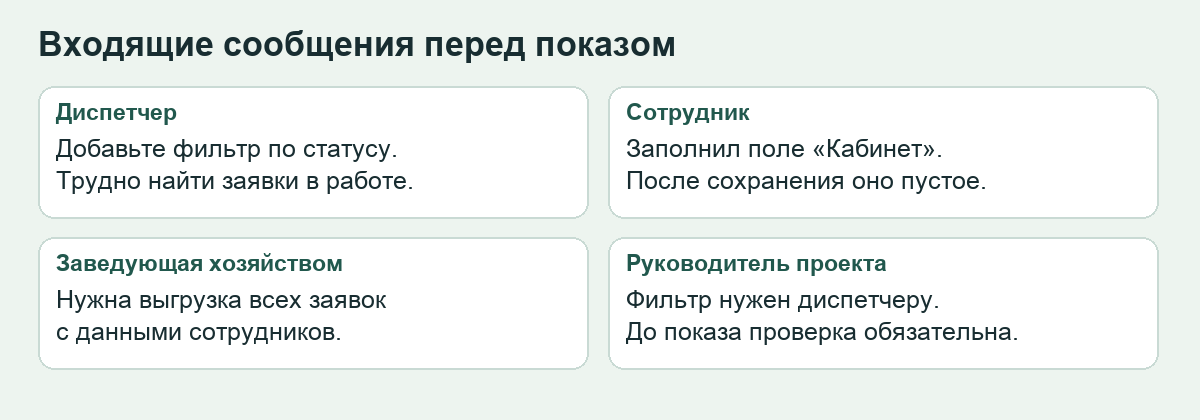
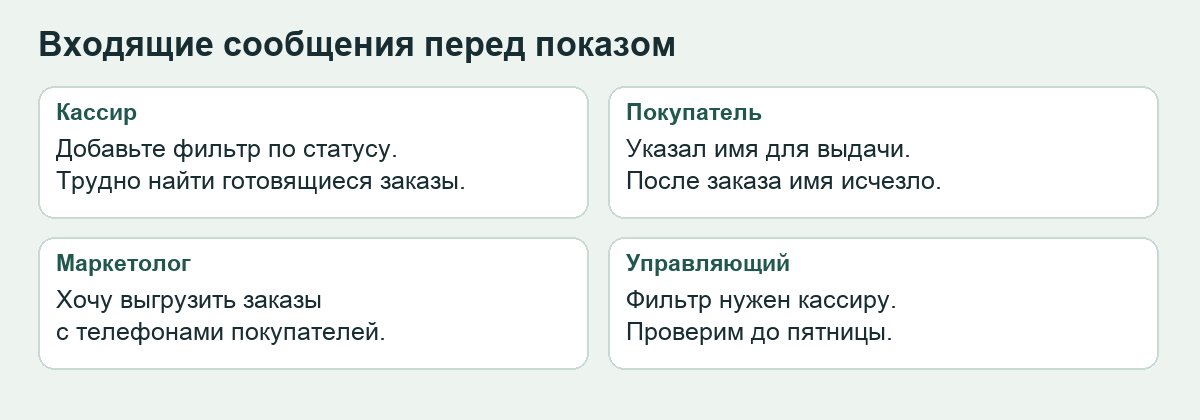
Turn both exercises into a pizzeria launch case

diff --git a/Управление изменениями.md b/Управление изменениями.md
@@ -74,100 +74,79 @@
 
 **Запишите в тетрадь** определение, состав запроса, порядок анализа и возможные решения. Зарисуйте схему. Под третьим блоком подпишите три исхода: включить в выпуск, перенести, отклонить. Рядом с каждым запишите, какое действие следует дальше.
 
-## Практическая работа. Подготовка выпуска системы заявок
+## Практическая работа. Пиццерия запускает онлайн-заказы
 
-![Откройте Excel или тетрадь. Восстановите границы выпуска, разберите четыре сообщения, примите решение и подготовьте проверки.](Схемы/маршрут-изменения.png)
+![Маршрут практической работы](Схемы/маршрут-изменения.png)
 
-**Ваша роль — координатор выпуска.** Подготовьте решение для руководителя проекта. К показу могут войти разные работы, поэтому сначала разберите, о чём на самом деле просит каждый участник.
+В пятницу вечером пиццерия впервые будет принимать заказы через сайт. До запуска осталась одна смена. Вы помогаете управляющему решить, какие изменения войдут в первую версию.
 
-![Четыре входящих сообщения от диспетчера, сотрудника, заведующей и руководителя проекта](Схемы/входящие.png)
+### Как работает сайт
 
-### Учебный кейс. Заявки на ремонт в офисе
+Покупатель выбирает пиццу и оформляет заказ навынос. Он указывает **имя для выдачи** и видит только свои заказы. Кассир видит все заказы и меняет их статус: **«Новый» → «Готовится» → «Выдан»**. Имя покупателя должно сохраняться и отображаться в заказе. В пятницу сайт должен заработать, деньги на дополнительные услуги не выделены. Состав выпуска утверждает управляющий.
 
-В офисе сломался принтер. Сотрудник открывает внутренний сервис и сообщает, что сломалось и в каком кабинете. Диспетчер видит обращение в общем списке и меняет его статус по ходу ремонта. К показу диспетчер просит добавить фильтр по статусу.
+### Сообщения перед запуском
 
-**Работайте с этим кейсом на всех четырёх листах.** Для выполнения нужны только эта страница и Excel или тетрадь. Сервис описан в условии. Устанавливать его и придумывать свою тему не нужно.
+![Четыре сообщения перед запуском онлайн-заказов](Схемы/входящие.png)
 
-- **«Выпуск»** — возьмите роли, доступ и ограничения из блока «Исходные данные».
-- **«Запросы»** — разберите четыре сообщения из того же блока.
-- **«Решение»** — предложите, включить ли фильтр в выпуск, и объясните почему.
-- **«Проверка»** — запишите, как должно вести себя приложение в пяти ситуациях из этапа 4.
+1. **Кассир:** «Добавьте фильтр по статусу. Когда заказов много, трудно найти те, которые ещё готовятся».
+2. **Покупатель:** «Указал имя для выдачи, но после оформления оно исчезло».
+3. **Маркетолог:** «Хочу выгружать заказы вместе с телефонами покупателей для рекламной рассылки». Использование контактов для рассылки ещё предстоит согласовать.
+4. **Управляющий:** «На старте фильтр нужен только кассиру. Добавляйте его, только если успеете проверить до пятницы».
 
-Примеры про прокат, кафе и другие сервисы показывают ход рассуждения. В свои таблицы записывайте ответы про заявки на ремонт.
-
-### Подготовка
-
-Откройте **Excel → Создать → Пустая книга**. Создайте четыре листа: **«Выпуск», «Запросы», «Решение», «Проверка»**. На каждом самостоятельно начертите таблицы по скриншоту: перенесите заголовки, поставьте границы и заполните строки. Сохраните книгу как «Изменения_Фамилия.xlsx».
-
-**Если Excel недоступен**, оформите в тетради **четыре подписанные таблицы по образцу листов**: «Выпуск», «Запросы», «Решение», «Проверка». В каждой таблице перенесите все блоки с соответствующего скриншота. Проведите линии по линейке, выделите заголовки и оставьте место для ответов.
-
-### Исходные данные
-
-Сотрудник создаёт заявку на ремонт и видит только свои заявки. В форме предусмотрено поле «Кабинет», значение которого должно оставаться в карточке после сохранения. Диспетчер видит все заявки и меняет статус: «Новая», «В работе», «Закрыта». Статусы уже хранятся в системе. В понедельник систему показывают заказчику. Дату менять нельзя. Дополнительные расходы не согласованы. Состав выпуска утверждает руководитель проекта.
-
-1. Диспетчер просит фильтр по статусу, чтобы на показе быстро найти незавершённые заявки.
-2. Сотрудник сообщает, что у новой заявки пропало название кабинета после сохранения.
-3. Заведующая хозяйством просит выгрузку всех заявок с данными сотрудников для рассылки по почте. Состав данных и доступ к ним ещё не согласованы.
-4. Руководитель проекта уточняет, что фильтр нужен только диспетчеру. Он готов рассмотреть включение в выпуск при условии, что команда успеет проверить изменение до показа.
+**Оформление.** Откройте **Excel → Создать → Пустая книга**. Создайте четыре листа: **«Выпуск», «Запросы», «Решение», «Проверка»**. Перенесите заголовки со скриншотов и поставьте границы. Если Excel недоступен, начертите в тетради четыре подписанные таблицы с теми же блоками. Все ответы относятся к пиццерии. Для работы достаточно условия и таблиц.
 
 ### Этап 1. Восстановите состав выпуска · 8 минут
 
-
 ![Пустой лист «Выпуск»](Шаблоны/Изменения-Выпуск.png)
 
+- **Верхний блок.** По одной строке на покупателя и кассира. В «Согласованных действиях» запишите, что роль может сделать. В «Границах доступа» укажите, чьи заказы она видит.
+- **Нижний блок.** Запишите, кто утверждает выпуск, какие два ограничения есть перед запуском и что покупатель сможет делать в своём кабинете после добавления фильтра кассиру.
 
-На листе «Выпуск» сделайте столбцы «Роль», «Согласованные действия», «Границы доступа». Заполните строки для сотрудника и диспетчера. Под таблицей запишите, кто утверждает выпуск и какие два ограничения заданы до начала работы. Отдельно сформулируйте, какое поведение личного кабинета должно сохраниться при добавлении фильтра.
+**Пример из проката велосипедов.** «Забронировать велосипед» — действие клиента. «Видит только свои брони» — граница доступа. Проверьте, что ваши строки отвечают на оба вопроса.
 
-**Пример из другой ситуации. Прокат велосипедов.** Клиент бронирует велосипед и видит свои брони. Администратор подтверждает брони и видит весь список. «Бронирует» — действие. «Видит только свои брони» — граница доступа. Подумайте, какую ошибку допустит тот, кто запишет в обе колонки «может бронировать».
-
-### Этап 2. Разберите обращения · 12 минут
-
+### Этап 2. Разберите сообщения · 12 минут
 
 ![Пустой лист «Запросы»](Шаблоны/Изменения-Запросы.png)
 
+- **Верхний блок.** Перенесите четыре сообщения по одному в строку. Определите вид каждого: предложение об изменении, сообщение о возможном дефекте или уточнение. Укажите, кому его передать и с чего начать. Для пропавшего имени запишите, какое согласованное поведение нужно проверить.
+- **Нижний блок.** Под заголовком «Запрос на изменение: фильтр по статусу» заполните пять строк: автор, причина, что добавить, для кого действует и как проверить. В последней строке запишите, что кассир должен увидеть при выборе статуса и после сброса.
 
-На листе «Запросы» сделайте столбцы «Автор», «Суть», «Вид обращения», «Кому передать», «Первое действие». Разберите все четыре сообщения. Используйте виды «изменение», «сообщение о дефекте», «уточнение». Для сообщения о кабинете запишите, какое согласованное поведение надо проверить. Свяжите уточнение руководителя с нужным обращением.
+**Пример из кинотеатра.** Кассир просит добавить подарочный билет, которого пока нет в продаже. Это предложение об изменении. Первым делом уточняют, где билет будут продавать. Подумайте, как бы вы назвали обращение, если подарочный билет уже был согласован, но исчез с сайта.
 
-На том же листе **«Запросы»**, под таблицей обращений, напишите заголовок **«Запрос на изменение: фильтр по статусу»**. Под ним сделайте два столбца — «Поле» и «Содержание». В столбце «Поле» подпишите пять строк: «Автор», «Причина», «Что добавить», «Где действует», «Как проверить». В «Содержании» заполните их по исходным данным задания. В последней строке опишите два результата — после выбора статуса и после сброса.
-
-**Пример из другой ситуации. Кинотеатр.** Кассир просит подарочные билеты. В строке обращения можно записать: «Кассир → добавить подарочный билет → изменение → руководителю проекта → уточнить, где билет будут продавать». Ниже в отдельном запросе указывают причину, границы и проверяемый результат. Подумайте, что изменится в записи, если подарочные билеты уже обещали, но они исчезли из продажи.
-
-### Этап 3. Подготовьте решение · 20 минут
-
+### Этап 3. Примите решение перед запуском · 20 минут
 
 ![Пустой лист «Решение»](Шаблоны/Изменения-Решение.png)
 
+1. **Что затронуто.** Заполните пять строк: экран кассира, данные заказа, доступ покупателя, инструкция кассира и проверка перед запуском. В каждой укажите работу и того, кто подтвердит результат.
+2. **Варианты.** Сравните два варианта: выпустить фильтр только для кассира или отложить. Для каждого запишите пользу, риск и вопрос, который надо выяснить до решения.
+3. **Решение.** Выберите вариант и обоснуйте его. Укажите, кто утвердит решение и где его записать.
+4. **Новая вводная.** Фильтр сделали, но после обновления ещё никто не проверял, сохраняется ли имя для выдачи. Под записью о решении допишите, меняет ли это ваш выбор и какое наблюдение поможет принять окончательное решение.
+5. **Сообщения.** В нижнем блоке напишите покупателю, что проверит команда, и маркетологу, какой вопрос о контактах нужно решить до выгрузки.
 
-1. В первом блоке листа «Решение» создайте столбцы «Что затронуто», «Что потребуется», «Кто подтвердит». Разберите интерфейс диспетчера, данные, доступ сотрудников, инструкцию и проверку выпуска.
-2. Во втором блоке сравните два варианта: включить фильтр только для диспетчера или перенести на следующий выпуск. Для каждого укажите пользу, риск и сведения, которые нужны для решения. Отметьте, что известно точно, а что надо уточнить.
-3. В третьем блоке напишите запись для журнала решений: предлагаемое решение, основание, кто утверждает, какой документ обновить после утверждения. Если предлагаете включение, укажите условие, при котором команда успеет подтвердить готовность.
-4. Представьте, что перед самым показом команда прислала новую информацию: фильтр готов, но проверка кабинета сотрудника после обновления ещё не проведена. Запишите, что вы измените в решении и какое подтверждение позволит пересмотреть его.
-5. В четвёртом блоке напишите два коротких сообщения. Сотруднику объясните, как будет проверено исчезновение кабинета. Заведующей задайте вопрос о составе разрешённых данных и согласовании доступа к выгрузке.
+**Пример из мастерской.** Сервис хочет отправлять клиентам уведомления о готовности ремонта. Если рассылку ещё не проверили, мастерская может запуститься с прежними уведомлениями. Чтобы обосновать решение, запишите конкретное условие: кому должно прийти сообщение и в какой момент.
 
-**Пример из другой ситуации. Кафе.** Владелец просит добавить предзаказ. Для раздела «Что затронуто» подойдёт строка «Меню → добавить время выдачи → администратор подтвердит доступные часы». Если запуск завтра, а время выдачи ещё не согласовано, можно отложить предзаказ и оставить действующее меню. Подумайте, кому об этом нужно сообщить и какой факт позволит пересмотреть решение.
-
-### Этап 4. Подготовьте условия проверки · 15 минут
-
+### Этап 4. Подготовьте проверки · 15 минут
 
 ![Пустой лист «Проверка»](Шаблоны/Изменения-Проверка.png)
 
+На экране кассира три заказа: **П-01 «Новый»**, **П-02 «Готовится»**, **П-03 «Готовится»**. П-01 и П-03 принадлежат Саше, П-02 — Жене. Заказов со статусом «Выдан» пока нет.
 
-На листе «Проверка» создайте столбцы «Исходное состояние», «Действие», «Ожидаемый результат», «Что записать при расхождении». Заполните пять строк:
+Заполните пять строк. В каждой укажите исходное состояние, действие, ожидаемый результат и что запишете, если результат окажется другим.
 
-- диспетчер выбирает статус, по которому есть заявки
-- диспетчер выбирает статус, по которому заявок нет
-- диспетчер сбрасывает фильтр
-- сотрудник открывает список, когда в системе есть его и чужие заявки
-- сотрудник сохраняет заявку с кабинетом и открывает её повторно
+1. Кассир выбирает «Готовится».
+2. Кассир выбирает «Выдан».
+3. Кассир сбрасывает фильтр после выбора «Готовится».
+4. Саша открывает личный кабинет.
+5. Женя оформляет новый заказ, указывает имя для выдачи и открывает заказ снова.
 
-Укажите, какие строки нужны для приёмки фильтра, а какая относится к обращению о кабинете. Под таблицей напишите, при каком наблюдении вы предложите отложить фильтр.
+Под таблицей запишите, при каком результате вы предложите отложить фильтр. Отметьте, какая проверка относится к отдельной жалобе об имени.
 
-**Пример из другой ситуации. Интернет-магазин обуви.** В каталоге есть кеды размера 38 и ботинки размера 40. Действие — выбрать размер 38. Ожидаемый результат — видны кеды, ботинок в списке нет. Если ботинки всё же видны, в последнем столбце запишите, какой размер выбрали и какая лишняя модель появилась. Подумайте, что надо записать как исходное состояние, чтобы другой человек смог повторить проверку.
+**Пример из магазина обуви.** Если в каталоге есть кеды 38-го размера и ботинки 40-го, после выбора 38-го должны остаться кеды. Если ботинки всё ещё видны, запишите выбранный размер и лишний товар. В своей таблице так же указывайте номера заказов там, где они известны.
 
 ### Самопроверка и показ · 10 минут
 
-Проверьте, что фильтр и выгрузка оформлены отдельно, сообщение о кабинете связано с согласованным требованием, а вывод по выпуску учитывает ограничения. У каждой проверки должны быть действие и наблюдаемый результат.
+Проверьте, что вы различили просьбу о новом фильтре и жалобу на пропавшее имя. Сверьте решение с условиями запуска. В проверках должно быть ясно, что сделать и какие заказы ожидать.
 
-**Покажите преподавателю на экране или в тетради:** схему в тетради, заполненный запрос на добавление фильтра на листе «Запросы», запись о решении на листе «Решение» и две строки на листе «Проверка» — сброс фильтра и доступ сотрудника.
+**Покажите на месте** схему из конспекта, запрос на фильтр, своё решение и две проверки: сброс фильтра и личный кабинет покупателя.
 
-**Если закончили раньше.** Диспетчер просит сохранять выбранный фильтр после выхода. Допишите, какие данные понадобится хранить, чем отличается проверка повторного входа под тем же и другим пользователем и как меняется решение о выпуске.
+**Если закончили раньше.** Управляющий хочет, чтобы фильтр сохранялся после выхода кассира. Опишите, что должно произойти, если на том же компьютере войдёт другой кассир. Добавьте проверку и решите, стоит ли расширять выпуск.

diff --git a/Управление качеством.md b/Управление качеством.md
@@ -60,86 +60,72 @@
 
 **Запишите в тетрадь** определения трёх видов работы с качеством и по одному примеру каждого. Зарисуйте схему. Под блоком сравнения подпишите два исхода: проверка пройдена или требуется замечание.
 
-## Практическая работа. Приёмка учебного обновления
+## Практическая работа. Последняя проверка перед открытием пиццерии
 
-![Откройте Excel или тетрадь. Сверьте наблюдения, оформите замечания, подготовьте повторные проверки и вынесите решение о выпуске.](Схемы/маршрут-качество.png)
+![Маршрут практической работы](Схемы/маршрут-качество.png)
 
-### Учебный кейс. Заявки на ремонт в офисе
+До запуска онлайн-заказов осталась одна смена. Фильтр по статусу уже добавили. Кассир нажал «Сбросить», но часть заказов так и не появилась. Вы разбираете результаты пробного запуска и готовите заключение для управляющего.
 
-Когда в офисе ломается принтер, сотрудник оставляет заявку в сервисе и указывает кабинет. Диспетчер видит общий список и пользуется новым фильтром по статусу. Вы проверяете обновление по готовому протоколу и снимкам на этой странице.
+![Два учебных снимка списка после сброса фильтра](Схемы/снимки-сброс.png)
 
-**Работайте с этим кейсом.** Для листа «Проверки» возьмите требования и наблюдения из протокола. На листе «Замечания» опишите обнаруженные расхождения. На листе «Приёмка» запишите, что надо проверить повторно и при каких условиях можно принять обновление. Устанавливать приложение и придумывать свою тему не нужно.
+**Оформление.** Откройте **Excel → Создать → Пустая книга**. Создайте листы **«Проверки», «Замечания», «Приёмка»**. Перенесите заголовки со скриншотов и поставьте границы. Если Excel нет, оформите эти три раздела в тетради. Программа условная, все наблюдения приведены ниже.
 
-**Ваша роль — проверяющий перед выпуском.** Диспетчер сообщил, что после сброса иногда видит только часть заявок. Перед вами два учебных снимка. Определите, какой мог получиться при нормальной работе, а какой подтверждает обращение диспетчера.
+### Как должен работать сайт
 
-![На обоих снимках выбран вариант «Все статусы». На снимке А видны Р-01, Р-02, Р-03 и Р-04. На снимке Б видны только Р-02 и Р-04.](Схемы/снимки-сброс.png)
+1. Кассир видит все заказы. После выбора статуса видны только заказы с этим статусом.
+2. Если заказов с выбранным статусом нет, появляется сообщение «Заказов нет».
+3. После сброса фильтра кассир снова видит все заказы.
+4. Покупатель видит только свои заказы. Фильтра в его личном кабинете нет.
+5. После оформления заказа имя для выдачи сохраняется и видно в карточке.
+6. Если кассир меняет статус заказа, заказ появляется в списке по новому статусу.
 
-Откройте **Excel → Создать → Пустая книга**. Создайте листы **«Проверки», «Замечания», «Приёмка»**. Перенесите заголовки со скриншотов, поставьте границы и заполните строки. Сохраните книгу как «Качество_Фамилия.xlsx».
+### Протокол пробного запуска
 
-**Если Excel недоступен**, оформите в тетради три подписанных раздела по скриншотам. Проведите линии по линейке, выделите заголовки и оставьте место для ответов.
+В начале каждого опыта есть четыре заказа: **П-01** (Саша, «Новый»), **П-02** (Женя, «Готовится»), **П-03** (Саша, «Новый»), **П-04** (Женя, «Готовится»). Выданных заказов нет.
 
-### Согласованные требования
-
-1. Диспетчер видит все заявки. По выбранному статусу список содержит только заявки с этим статусом.
-2. Если заявок с выбранным статусом нет, список пуст и появляется сообщение «Заявок нет».
-3. После сброса фильтра диспетчер снова видит все заявки.
-4. Сотрудник видит только свои заявки. Поле фильтра в личном кабинете отсутствует.
-5. После сохранения заявки значение поля «Кабинет» видно в её карточке.
-6. Если диспетчер меняет статус заявки, она появляется в списке по новому статусу.
-
-### Данные и протокол
-
-В начале каждого опыта в системе четыре заявки: Р-01 (Анна, «Новая»), Р-02 (Игорь, «В работе»), Р-03 (Анна, «Новая»), Р-04 (Игорь, «В работе»). Закрытых заявок нет.
-
-- **А.** Диспетчер открывает список без фильтра. Видны Р-01, Р-02, Р-03, Р-04.
-- **Б.** Диспетчер выбирает «В работе». Видны Р-02 и Р-04.
-- **В.** Диспетчер выбирает «Закрыта». Список пуст, сообщения нет.
-- **Г.** Диспетчер выбирает «В работе» и сбрасывает фильтр. Поле очищается, но в списке остаются Р-02 и Р-04.
-- **Д.** Анна открывает личный кабинет. Видны Р-01 и Р-03. Поля фильтра нет.
-- **Е.** Игорь создаёт заявку, вводит кабинет «304», сохраняет и открывает карточку. Поле пустое.
-- **Ж.** Диспетчер переводит Р-01 в «В работе» и открывает список по этому статусу. Видны Р-01, Р-02 и Р-04.
-- **З.** Проверяющий пытается войти под учётной записью Игоря для отдельной проверки личного кабинета. Вход недоступен. Список заявок не открывался.
+- **А.** Кассир открывает список без фильтра. Видны П-01, П-02, П-03, П-04.
+- **Б.** Кассир выбирает «Готовится». Видны П-02 и П-04.
+- **В.** Кассир выбирает «Выдан». Список пуст, сообщения нет.
+- **Г.** Кассир выбирает «Готовится» и нажимает «Сбросить». Поле показывает «Все статусы», но в списке остаются П-02 и П-04.
+- **Д.** Саша открывает личный кабинет. Видны П-01 и П-03. Фильтра нет.
+- **Е.** Женя оформляет новый заказ с именем для выдачи «Женя» и открывает его снова. Поле имени пустое.
+- **Ж.** Кассир переводит П-01 в «Готовится» и открывает список по этому статусу. Видны П-01, П-02 и П-04.
+- **З.** Проверяющий пытается войти как Женя для отдельной проверки личного кабинета. Вход недоступен, список не открывался.
 
 ### Этап 1. Разберите протокол · 15 минут
 
-
 ![Пустой лист «Проверки»](Шаблоны/Качество-Проверки.png)
 
+Заполните восемь строк. Для каждого опыта укажите требование, роль, действие, ожидаемое и фактическое поведение. В выводе выберите «пройдена», «расхождение» или «не выполнена». В нижнем блоке объясните, какой снимок соответствует опыту Г и почему по опыту З нельзя судить о списке Жени.
 
-На листе «Проверки» создайте столбцы «Опыт», «Требование», «Роль», «Действие», «Ожидается», «Получено», «Вывод». Заполните восемь строк. Где возможно, назовите точные номера заявок. Для вывода используйте «пройдена», «расхождение» или «не выполнена». Объясните, почему по опыту З нельзя сделать вывод о составе списка Игоря. Укажите, какой снимок подтверждает наблюдение из опыта Г и какие строки на нём отсутствуют.
+**Пример из прачечной.** Форма без адреса должна показать подсказку. Если подсказка появилась, проверка пройдена. Если форма вообще не открылась, проверить подсказку не удалось.
 
-**Пример из другой ситуации. Прачечная.** Требование — без адреса заказ не оформляется. Проверяющий оставил поле пустым и нажал «Отправить». Форма осталась открытой и показала подсказку. В графе «Вывод» напишите, соответствует ли наблюдение требованию. Что бы изменилось, если бы страница вообще не открылась?
-
-### Этап 2. Оформите замечания · 15 минут
-
+### Этап 2. Запишите замечания · 15 минут
 
 ![Пустой лист «Замечания»](Шаблоны/Качество-Замечания.png)
 
+По каждому наблюдаемому расхождению заполните одну строку. Укажите заголовок, требование, роль, исходные данные, шаги, ожидаемое и фактическое поведение. В последнем столбце объясните, чем проблема мешает покупателю или кассиру. В нижнем блоке запишите, какой доступ нужен для повторения опыта З.
 
-На листе «Замечания» оформите по карточке на каждое фактическое расхождение. В каждой укажите заголовок, требование, роль, исходные данные, шаги, ожидание, наблюдение и последствие для пользователя. Например, из замечания о пустом поле должно быть понятно, какое значение вводили и в какой момент оно пропало. Отдельно запишите, какой доступ понадобится для выполнения опыта З.
+**Пример из кинотеатра.** В подтверждении указан сеанс на 20:00, хотя зритель выбрал 18:00. Для повторения укажите выбранный фильм, время и место, где появилось другое время.
 
-**Пример из другой ситуации. Кинотеатр.** После выбора сеанса на 18:00 в подтверждении указано 20:00. В замечании отдельно запишите, что выбрал зритель и какое время появилось. Подумайте, какая подробность поможет повторить ошибку: название фильма, выбранный сеанс или оба сведения.
-
-### Этап 3. Подготовьте повторные проверки · 15 минут
-
+### Этап 3. Спланируйте повторную проверку · 15 минут
 
 ![Пустой лист «Приёмка»](Шаблоны/Качество-Приёмка.png)
 
+Разработчик сообщил: «Исправили сброс. Список заново загружается при нажатии кнопки. Имя для выдачи пока не исправили».
 
-Разработчик сообщил: «Исправил сброс фильтра. После нажатия кнопки список обновляется. Исправление кабинета ещё в работе».
+В верхнем блоке запишите четыре проверки: сброс, повторный выбор статуса, смена статуса заказа и просмотр своих заказов покупателем. Укажите конкретные заказы, которые должны появиться. В среднем блоке перечислите открытые замечания и запишите, как их проверить после исправления.
 
-На листе «Приёмка» запишите четыре проверки: сброс фильтра, повторное применение фильтра, изменение статуса и просмотр своих заявок сотрудником. Для каждой укажите исходные данные, действие и ожидаемый состав списка. Назначьте каждому снимку роль в повторной проверке: какой соответствует ожидаемому виду экрана и какой показывает прежнее поведение. Отдельно перечислите замечания, по которым в сообщении разработчика нет сведений об исправлении. Укажите, как их проверить после исправления.
+**Пример из проката.** После исправления отмены брони сначала проверяют, что велосипед снова свободен, а затем пробуют его забронировать на то же время.
 
-**Пример из другой ситуации. Прокат велосипедов.** После исправления отмените бронь и проверьте, что велосипед снова доступен на то же время. Затем попробуйте забронировать его снова. Подумайте, какой результат подтвердит исправление, а какой заставит отложить выпуск.
+### Этап 4. Решите, можно ли открываться · 10 минут
 
-### Этап 4. Составьте заключение · 10 минут
-
-Напишите руководителю проекта короткое заключение. Укажите, что подтверждено пробным запуском, какие расхождения остались, почему сообщение разработчика ещё требует проверки и при каких условиях можно принять обновление.
+В нижнем блоке «Приёмки» запишите для управляющего: что уже подтверждено, какие проблемы остались, что нужно проверить ещё раз и при каком результате вы предложите открыть онлайн-заказы. Учитывайте, сможет ли кассир выдать заказ, если имя не сохранилось.
 
 ### Самопроверка и показ · 10 минут
 
-У каждого вывода в протоколе есть требование и наблюдение. Для сброса сверьте состав списка с исходными данными. Проверьте, что по замечанию другой человек сможет повторить ваши действия.
+Сверьте свои выводы с требованиями и наблюдениями. В замечании по сбросу укажите, какие заказы пропали, хотя должны были вернуться.
 
-**Покажите преподавателю на экране или в тетради:** схему, протокол, замечание по сбросу и заключение о приёмке.
+**Покажите на месте** схему из конспекта, протокол, замечание по сбросу и заключение о запуске.
 
-**Если закончили раньше.** Добавьте проверку последовательных переходов: «В работе» → «Новая» → сброс. Для каждого действия укажите точный состав списка. Добавьте ещё один опыт, в котором диспетчер переводит Р-04 в «Закрыта», и запишите, как должны выглядеть списки «В работе» и «Закрыта».
+**Если закончили раньше.** Кассир выбирает «Готовится», затем «Новый» и только после этого нажимает «Сбросить». Укажите ожидаемый состав списка после каждого шага.

diff --git a/README.md b/README.md
@@ -4,7 +4,7 @@
 
 1. **Откройте нужную страницу.** 1-я пара (11 ТЭС) и 2-я пара (12 ТЭС) — [Управление изменениями](Управление%20изменениями.md). 3-я пара (11 ТЭС) — [Управление качеством](Управление%20качеством.md).
 2. **Скажите группе.** «Откройте занятие. Первые 25 минут — конспект и схема. Затем 55 минут работайте по шагам в Excel или в тетради. В конце покажите результат на месте».
-3. **Посмотрите главное.** На первых двух парах студент показывает запрос на добавление фильтра и объясняет, включил бы его в выпуск или отложил. На третьей показывает замечание по сбросу фильтра: что должно было произойти и что произошло на самом деле. Полный список для показа есть в конце каждого задания.
+3. **Посмотрите главное.** На первых двух парах студент показывает запрос на добавление фильтра для кассира и объясняет, включил бы его в выпуск или отложил. На третьей показывает замечание о пропавших заказах после сброса фильтра: что должно было произойти и что произошло на самом деле. Полный список для показа есть в конце каждого задания.
 
 ## Студентам
 
